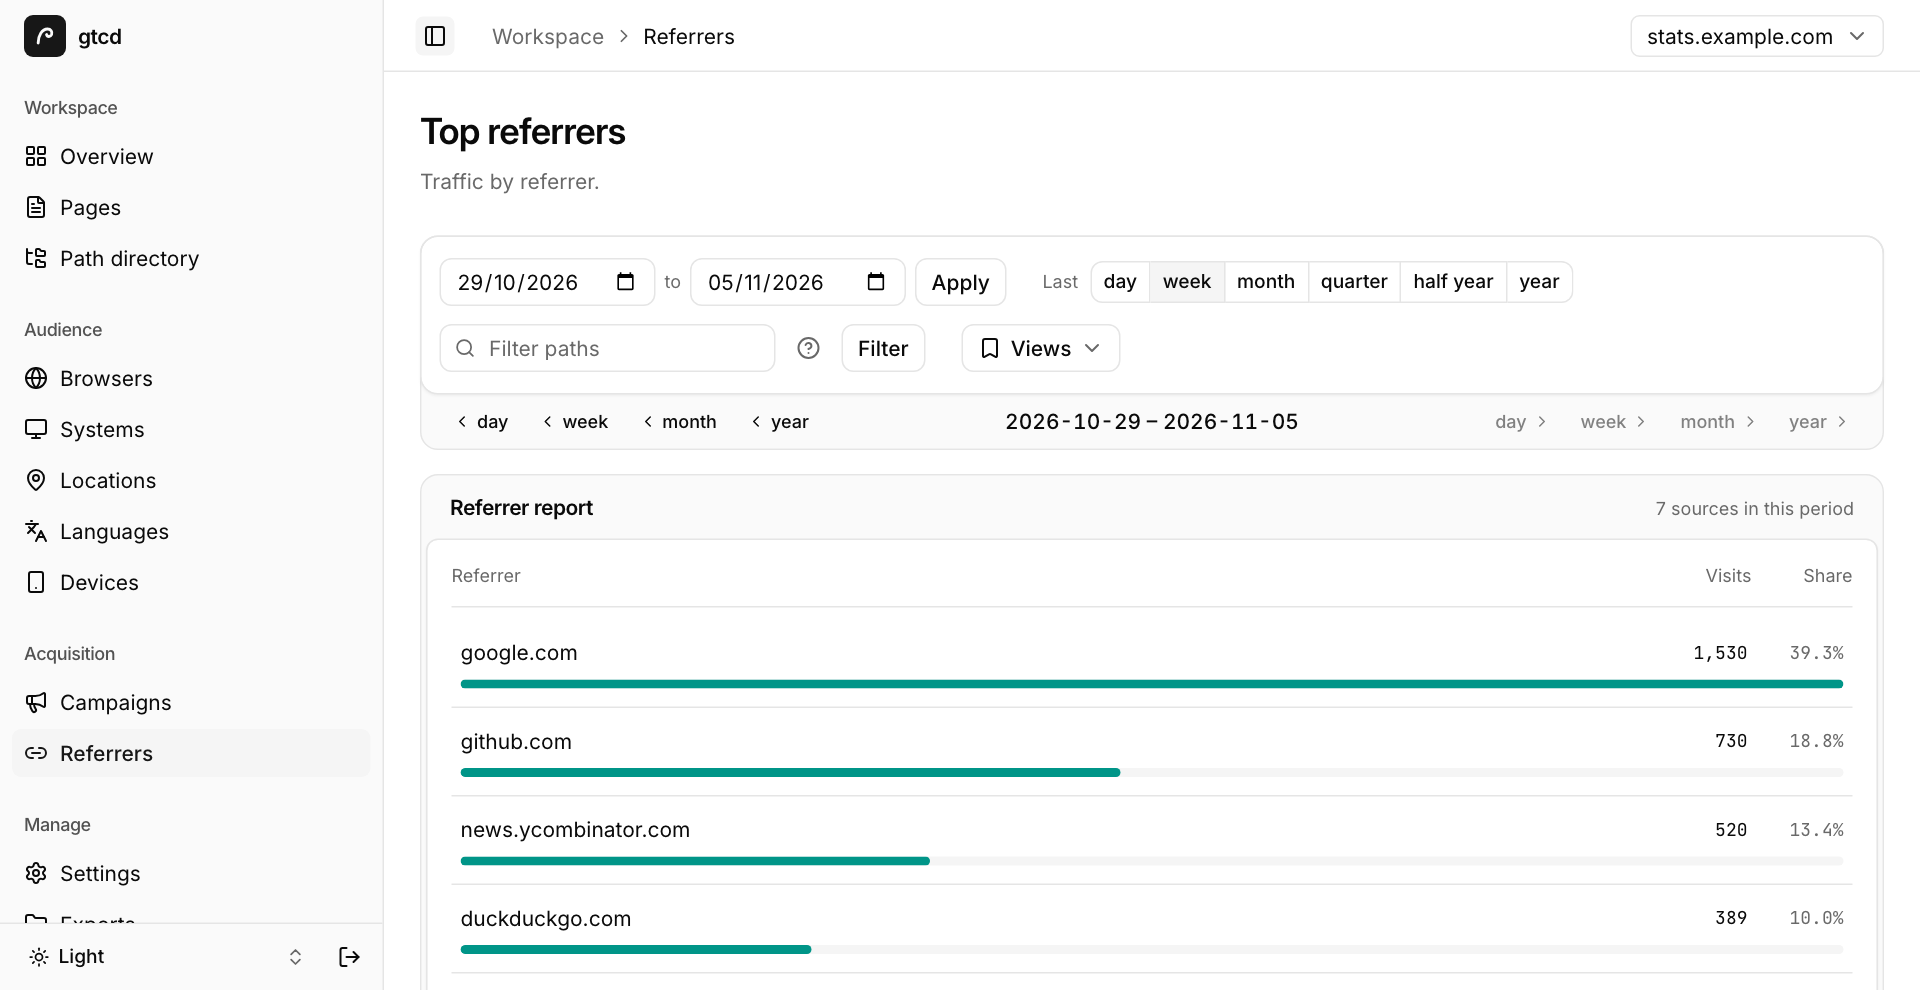
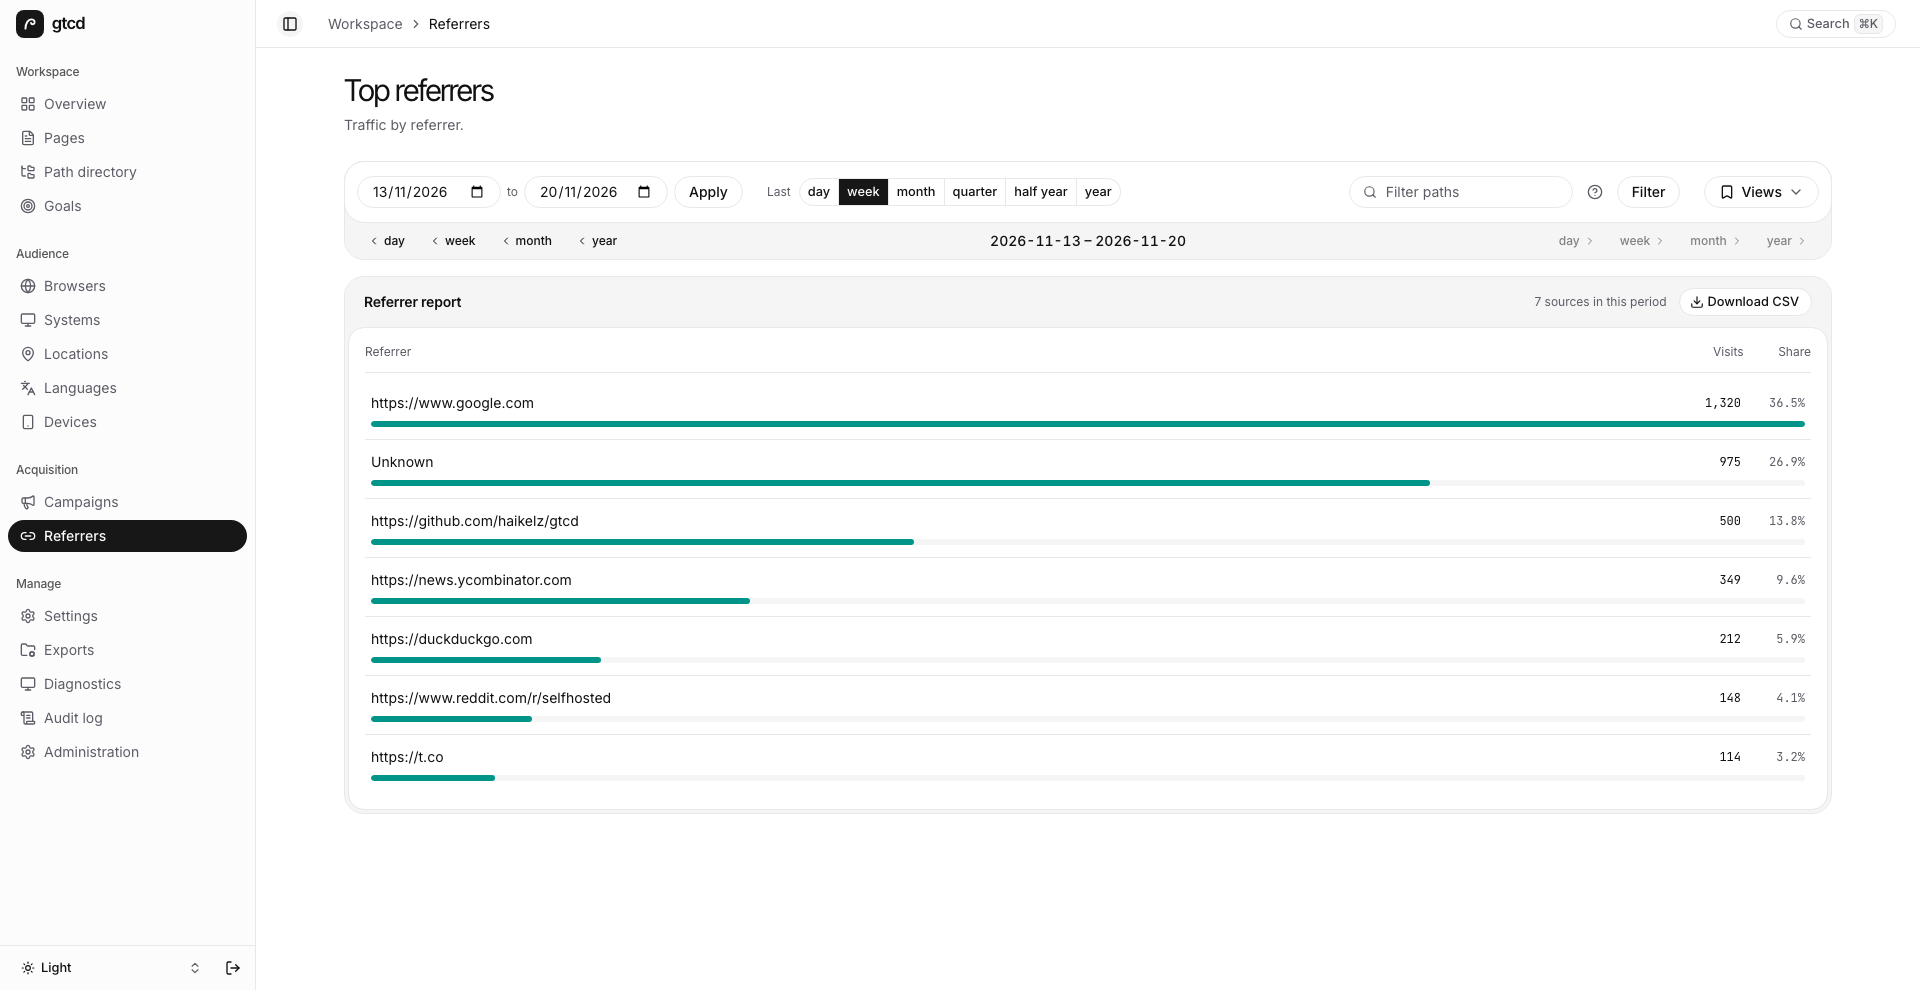
docs(readme): retake the screenshots in the shared design
All 22 README screenshots come from the new design, captured by
scripts/capture-screenshots.mjs; six dark twins (login, pages, locations,
share, customize, phone) feed the landing page's dark theme. The sign-in
shot leaves Turnstile off: Cloudflare's test widget now stamps itself
'For testing only'.

diff --git a/README.md b/README.md
@@ -80,7 +80,7 @@ itself runs unchanged.
     <td><img src="docs/screenshots/traffic-id.png" alt="Traffic overview in Bahasa Indonesia"></td>
   </tr>
   <tr>
-    <td><img src="docs/screenshots/login.png" alt="gtcd sign-in page with the GoatCounter account form and a passed Cloudflare Turnstile check"></td>
+    <td><img src="docs/screenshots/login.png" alt="gtcd sign-in page with the GoatCounter account form"></td>
     <td><img src="docs/screenshots/login-mfa.png" alt="Two-factor step asking for the 6-digit code from an authenticator app"></td>
   </tr>
   <tr>
@@ -89,8 +89,9 @@ itself runs unchanged.
   </tr>
 </table>
 
-Captured from a local build against a synthetic GoatCounter; the numbers are
-illustrative.
+Captured by [`scripts/capture-screenshots.mjs`](scripts/capture-screenshots.mjs)
+from a local build against a real GoatCounter 2.7 seeded with synthetic visits;
+the numbers are illustrative.
 
 </details>
 
